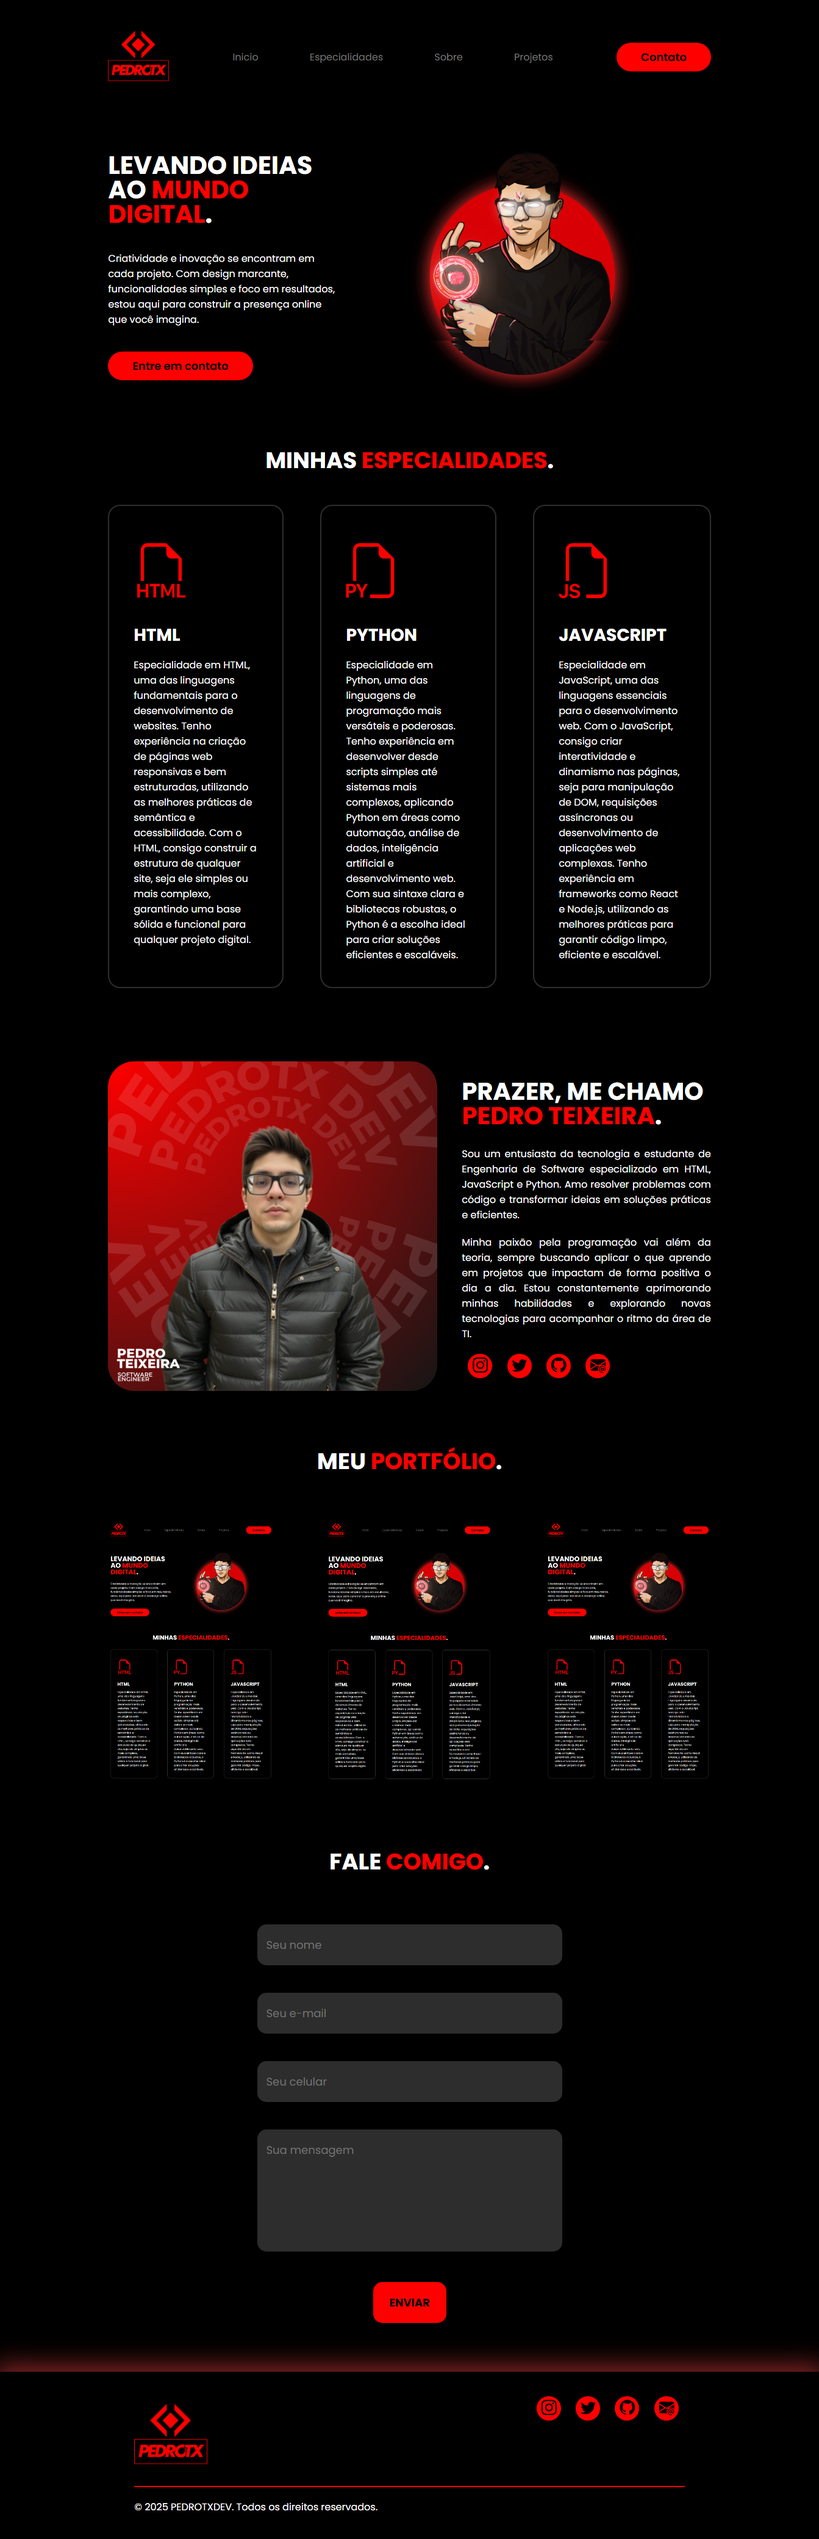
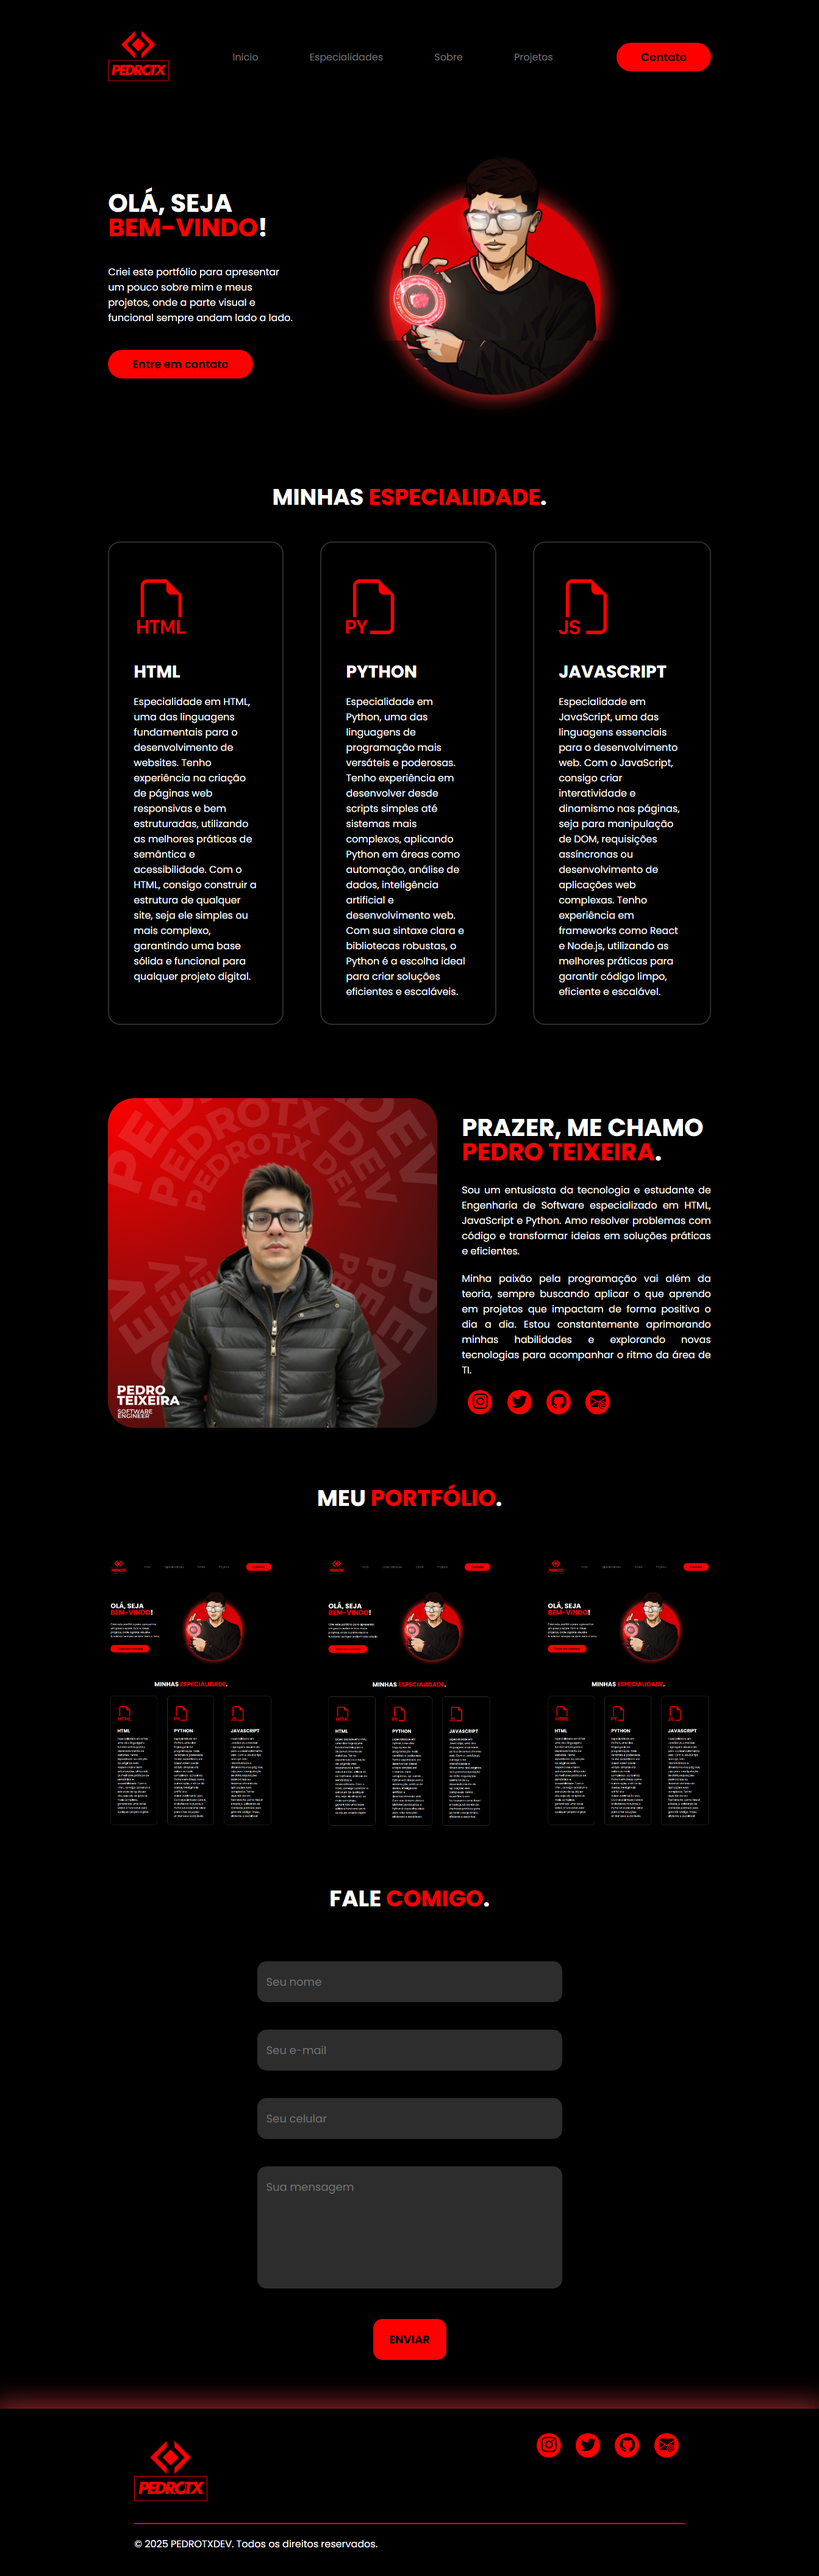
update in the top section of the site

diff --git a/index.html b/index.html
@@ -48,9 +48,9 @@
             <div class="interface">
                 <div class="flex">
                     <div class="txt-topo-site">
-                        <h1>LEVANDO IDEIAS AO
-                            <span>MUNDO DIGITAL</span>.</h1>
-                        <p>Criatividade e inovação se encontram em cada projeto. Com design marcante, funcionalidades simples e foco em resultados, estou aqui para construir a presença online que você imagina.
+                        <h1>OLÁ, SEJA 
+                            <span>BEM-VINDO</span>!</h1>
+                        <p>Criei este portfólio para apresentar um pouco sobre mim e meus projetos, onde a parte visual e funcional sempre andam lado a lado.
 
                         <div class="btn-contato">
                             <a href="#formulario">

diff --git a/style.css b/style.css
@@ -111,6 +111,7 @@
   
   .topo-do-site .txt-topo-site h1 span{
     color: red;
+    display: inline-block;
   }
   
   .topo-do-site .txt-topo-site p{
